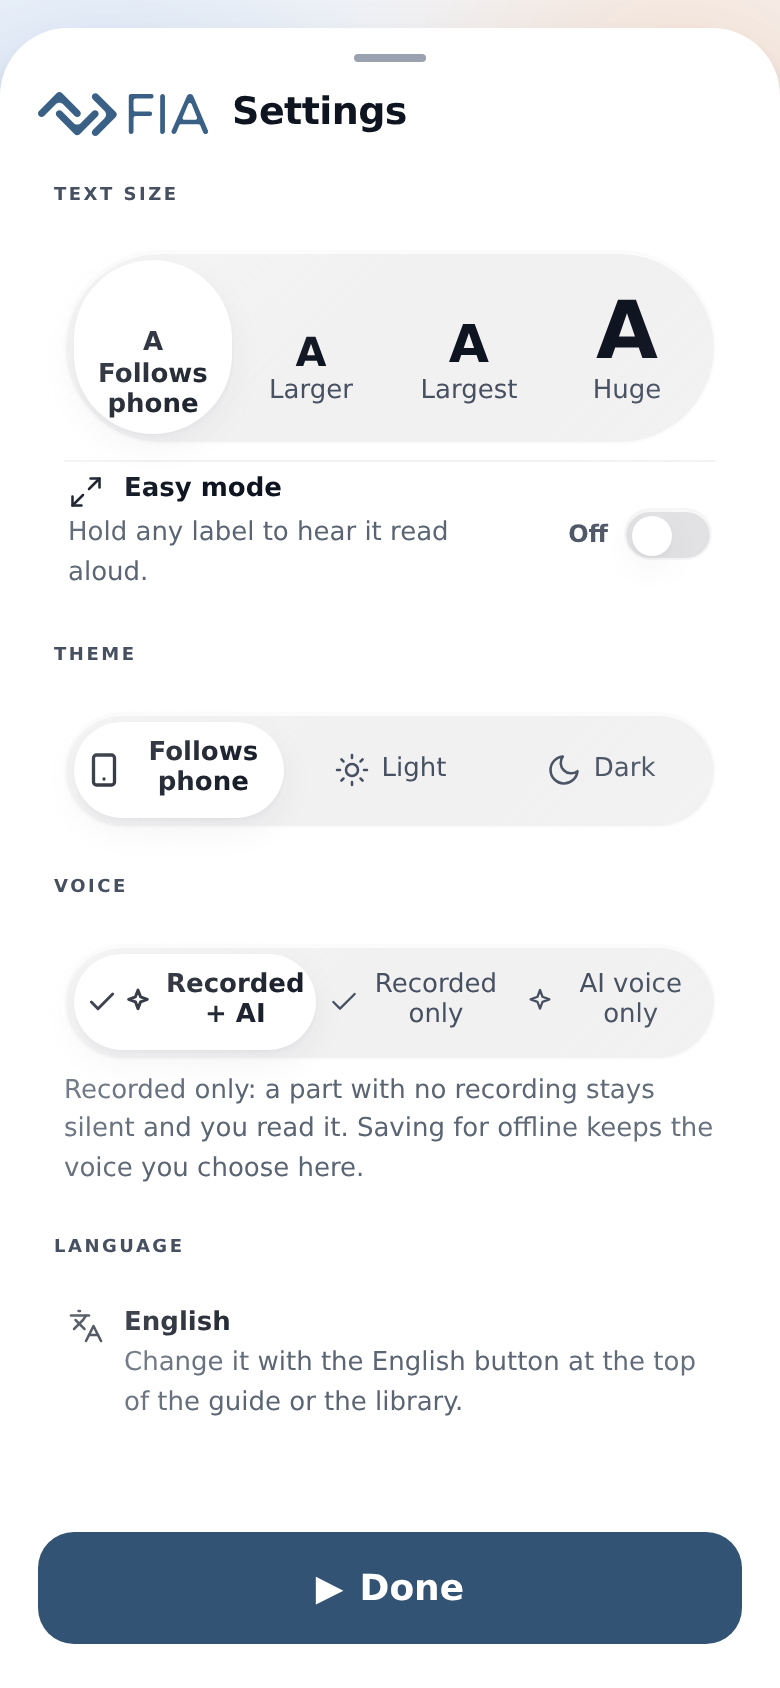
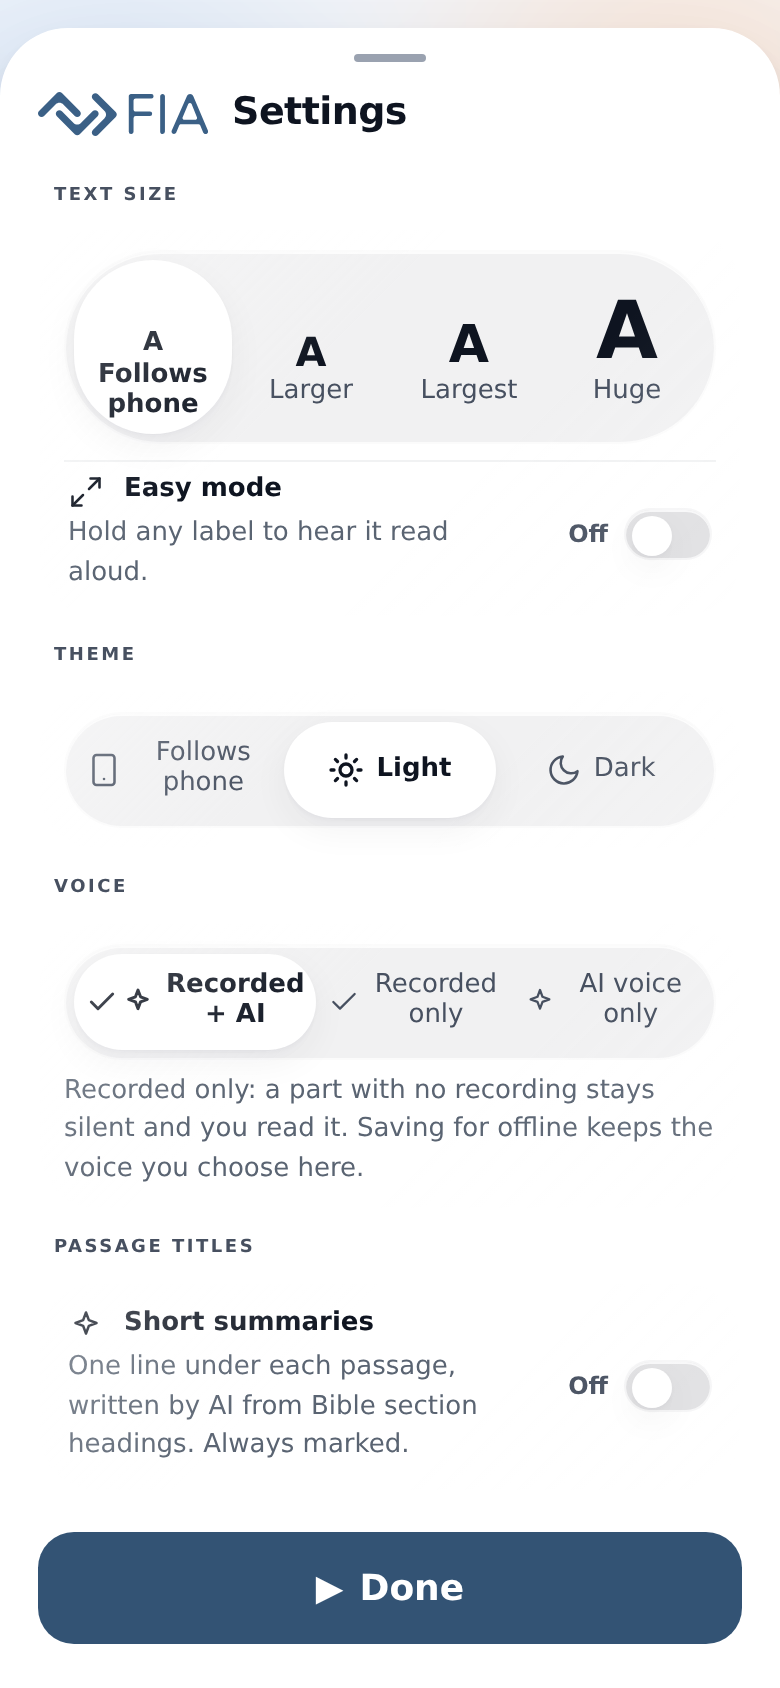
FS-2: C-10 subtitleMode setting, S14 "Passage titles" switch, S01 line
- settings.ts: subtitleMode generated|off (C-10 1.1.0), default off via
  DEFAULT_SUBTITLE_MODE; normalizeSettings keeps a stored valid value and
  drops junk with a status line (#42 review: it was dropped on load).
- S14: "Passage titles" group, one SettingsRow + SettingsToggle with the
  kit sparkle, label "Short summaries", note per TICKET § 8 FS-2.
- S01: disclosure names passage summaries while the switch is on
  (TERRY-READING (4)).
- en.json regenerated by scripts/extract-strings.mjs from the cookbook
  string rows (companion cookbook PR).
- Tests: C-10 default off, normalize keep/drop, save-load round trip,
  S14 render, e2e persistence across reload; S14 well count 4 -> 5.
- Screenshots: S14 top/end light+dark re-shot at 390x844; new fs2/ shots.

No subtitle rendering on S02/S03 (FS-1, after BL4e).

Claude-Session: https://claude.ai/code/session_0162y4Z8mEx6Zs8pPrnLdyeE

diff --git a/src/settings/settings.ts b/src/settings/settings.ts
@@ -1,6 +1,7 @@
 // C-10 Settings (contracts/c10-settings.schema.json, key `fia.settings.v1`).
 // Load → migrate PoC keys once → coerce unknown enums to defaults with a status line →
 // validate → persist. Enum values are the contract; UI labels are not (R-313).
+import { DEFAULT_SUBTITLE_MODE, type SubtitleMode } from '../media/provenance';
 import { C10, contracts, errorsText } from './contracts';
 import type { KeyValueStore } from './storage';
 
@@ -10,6 +11,8 @@ export const NARRATION_MODES = ['source-fallback', 'source-only', 'generated-onl
 export const MEDIA_TIERS = ['text', 'phone', 'medium', 'original'] as const;
 export const TEXT_SIZES = ['system', 'large', 'max', 'huge'] as const;
 export const THEMES = ['system', 'light', 'dark'] as const;
+/** C-10 1.1.0 `subtitleMode` (FS-2): AI pericope subtitles shown (`generated`) or hidden (`off`). */
+export const SUBTITLE_MODES = ['generated', 'off'] as const satisfies readonly SubtitleMode[];
 export const DISCLOSURES = [
   'ai-narration',
   'ai-translation',
@@ -22,10 +25,13 @@ export type MediaTier = (typeof MEDIA_TIERS)[number];
 export type TextSize = (typeof TEXT_SIZES)[number];
 export type Theme = (typeof THEMES)[number];
 export type Disclosure = (typeof DISCLOSURES)[number];
+export type { SubtitleMode };
 
 export interface Settings {
   schemaVersion: 1;
   narrationMode: NarrationMode;
+  /** C-10 1.1.0; optional in the contract, always filled by normalizeSettings (default `off`). */
+  subtitleMode: SubtitleMode;
   mediaTier: MediaTier;
   contentLanguage: string;
   uiLanguage: string;
@@ -39,10 +45,11 @@ export interface Settings {
 
 const LANG = /^[a-z]{3}(-[A-Za-z]{2,8})?$/;
 
-/** Defaults: narration source-fallback (M3, R-501); telemetry off (C-10 test). */
+/** Defaults: narration source-fallback (M3, R-501); subtitles off (PoC a5); telemetry off (C-10 test). */
 export const DEFAULT_SETTINGS: Settings = Object.freeze({
   schemaVersion: 1,
   narrationMode: 'source-fallback',
+  subtitleMode: DEFAULT_SUBTITLE_MODE,
   mediaTier: 'phone',
   contentLanguage: 'eng',
   uiLanguage: 'eng',
@@ -128,6 +135,7 @@ export function normalizeSettings(raw: unknown, base: Settings = DEFAULT_SETTING
       'narrationMode',
       notes,
     ),
+    subtitleMode: pick(SUBTITLE_MODES, r.subtitleMode, base.subtitleMode, 'subtitleMode', notes),
     mediaTier: pick(MEDIA_TIERS, r.mediaTier, base.mediaTier, 'mediaTier', notes),
     contentLanguage: lang(r.contentLanguage, base.contentLanguage, 'contentLanguage', notes),
     uiLanguage: lang(r.uiLanguage, base.uiLanguage, 'uiLanguage', notes),

diff --git a/tests/settings.test.ts b/tests/settings.test.ts
@@ -122,3 +122,46 @@ describe('startup applies saved display settings (review fia-app#5 finding 3)', 
     expect(attrs.has('data-low-literacy')).toBe(true);
   });
 });
+
+// FS-2 (pericope-subtitles TICKET § 8): C-10 1.1.0 `subtitleMode` generated|off, default off (PoC a5).
+describe('C-10 subtitleMode (FS-2)', () => {
+  it('defaults to off, matching the contract default and DEFAULT_SUBTITLE_MODE', async () => {
+    const fs = await import('node:fs');
+    const c10 = JSON.parse(
+      fs.readFileSync(new URL('../contracts/c10-settings.schema.json', import.meta.url), 'utf8'),
+    );
+    const { DEFAULT_SUBTITLE_MODE } = await import('../src/media/provenance');
+    expect(DEFAULT_SETTINGS.subtitleMode).toBe('off');
+    expect(DEFAULT_SUBTITLE_MODE).toBe('off');
+    expect(c10.properties.subtitleMode.default).toBe('off');
+    expect(c10.properties.subtitleMode.enum).toEqual(['generated', 'off']);
+    expect(normalizeSettings({}).settings.subtitleMode).toBe('off');
+    expect(validateSettings(DEFAULT_SETTINGS).ok).toBe(true);
+  });
+  it('normalize keeps a stored valid value and drops junk with a status line', () => {
+    const kept = normalizeSettings({ ...DEFAULT_SETTINGS, subtitleMode: 'generated' });
+    expect(kept.settings.subtitleMode).toBe('generated');
+    expect(kept.notes).toEqual([]);
+    const junk = normalizeSettings({ ...DEFAULT_SETTINGS, subtitleMode: 'on' });
+    expect(junk.settings.subtitleMode).toBe('off');
+    expect(junk.notes).toEqual(['subtitleMode: unknown value "on" → off']);
+    expect(validateSettings({ ...DEFAULT_SETTINGS, subtitleMode: 'on' }).ok).toBe(false);
+  });
+  it('generated survives save → load through fia.settings.v1', () => {
+    const store = memoryStore();
+    const saved = saveSettings(store, { ...DEFAULT_SETTINGS, subtitleMode: 'generated' });
+    expect(saved.ok).toBe(true);
+    expect(JSON.parse(store.getItem(SETTINGS_KEY)!).subtitleMode).toBe('generated');
+    expect(loadSettings(store).settings.subtitleMode).toBe('generated');
+  });
+  it('a 1.0.0 record with no subtitleMode loads as off', () => {
+    const store = memoryStore();
+    const { subtitleMode: _drop, ...old } = DEFAULT_SETTINGS;
+    void _drop;
+    store.setItem(SETTINGS_KEY, JSON.stringify({ ...old, narrationMode: 'source-only' }));
+    const r = loadSettings(store);
+    expect(r.settings.subtitleMode).toBe('off');
+    expect(r.settings.narrationMode).toBe('source-only');
+    expect(r.notes).toEqual([]);
+  });
+});

diff --git a/tests/s14-settings.test.ts b/tests/s14-settings.test.ts
@@ -47,6 +47,41 @@ describe('S14 Settings in glass', () => {
   });
 });
 
+describe('S14 Passage titles (FS-2, C-10 subtitleMode)', () => {
+  it('renders one Short summaries switch with its note and the kit sparkle, off by default', () => {
+    const h = html();
+    expect(h).toContain('aria-label="Passage titles"');
+    expect(h).toContain(EN['s.settings.summaries-note']);
+    expect(EN['s.settings.summaries']).toBe('Short summaries');
+    expect(EN['s.settings.summaries-note']).toBe(
+      'One line under each passage, written by AI from Bible section headings. Always marked.',
+    );
+    const sw = h.match(
+      /<[^>]*role="switch"[^>]*aria-label="Short summaries"[^>]*>|<[^>]*aria-label="Short summaries"[^>]*role="switch"[^>]*>/,
+    );
+    expect(sw?.[0]).toContain('aria-checked="false"');
+    const group = h.slice(h.indexOf('aria-label="Passage titles"'));
+    expect(group.slice(0, group.indexOf('</section>'))).toContain('M12 3l1.9 5.1L19 10');
+  });
+  it('sits between Voice and Language', () => {
+    const h = html();
+    const at = (k: string) => h.indexOf(`aria-label="${EN[k]}"`);
+    expect(at('s.settings.narration')).toBeLessThan(at('s.settings.passage-titles'));
+    expect(at('s.settings.passage-titles')).toBeLessThan(at('s.settings.language'));
+  });
+});
+
+describe('S01 disclosure names passage summaries when the switch is on (TERRY-READING (4))', () => {
+  it("keeps today's line by default and has the summaries line ready", async () => {
+    const { default: S01 } = await import('../src/screens/S01FirstRunLanguage');
+    const h = renderToString(createElement(MemoryRouter, null, createElement(S01)));
+    expect(h).toContain(EN['s.lang.disclosure']);
+    expect(EN['s.lang.disclosure-summaries']).toBe(
+      'Some voices, translations and passage summaries are made by AI and are marked.',
+    );
+  });
+});
+
 describe('Text-size steps 100 / 150 / 200 / 310% (PRD § 8.5)', () => {
   it('C-10 accepts huge and maps each step to its own html attribute', () => {
     expect(normalizeSettings({ ...DEFAULT_SETTINGS, textSize: 'huge' }).settings.textSize).toBe(

diff --git a/src/screens/S14Settings.tsx b/src/screens/S14Settings.tsx
@@ -27,7 +27,8 @@ import {
 
 // S14 Settings in glass (F6-S14; nodded mock cookbook design/alpha-v2-screens/14-settings.html, PRD § 4
 // row S14, § 8.5): a full-height kit GlassSheet with the FIA logo leading the title, one primary
-// ('Done') in the thumb slot, groups as kit GlassSurface wells: Text size · Theme · Voice · Language.
+// ('Done') in the thumb slot, groups as kit GlassSurface wells: Text size · Theme · Voice · Passage titles
+// · Language. FS-2: "Passage titles" holds one ToggleRow (kit sparkle) for C-10 `subtitleMode`, default off.
 // Kept bones: every change persists to C-10 `fia.settings.v1` after validation (R-706); a failed save
 // shows `save-failed` for 4 s and the app continues. Rows whose value has no C-10 field (auto-continue,
 // read without voice, this phone's voice) are not rendered: they would not persist (BIDE, PR body).
@@ -270,6 +271,21 @@ export default function S14Settings() {
                 }))}
               />
               <div className="fia-caption s14-note">{t('s.settings.narration.note')}</div>
+            </Group>
+
+            <Group title={t('s.settings.passage-titles')}>
+              <SettingsRow
+                icon={<Icon name="sparkle" size={18} />}
+                label={t('s.settings.summaries')}
+                consequence={t('s.settings.summaries-note')}
+                control={
+                  <SettingsToggle
+                    on={settings.subtitleMode === 'generated'}
+                    label={t('s.settings.summaries')}
+                    onChange={(v) => update({ ...settings, subtitleMode: v ? 'generated' : 'off' })}
+                  />
+                }
+              />
             </Group>
 
             <Group title={t('s.settings.language')}>

diff --git a/e2e/fs2-subtitle-mode.spec.ts b/e2e/fs2-subtitle-mode.spec.ts
@@ -1,0 +1,44 @@
+import { expect, test } from '@playwright/test';
+
+// FS-2 (pericope-subtitles TICKET § 8): the S14 "Short summaries" switch writes C-10 `subtitleMode`,
+// survives a reload, and S01's disclosure names passage summaries while it is on (TERRY-READING (4)).
+test('S14 Short summaries switch persists across reload and reaches the S01 disclosure', async ({
+  page,
+}) => {
+  await page.setViewportSize({ width: 390, height: 844 });
+  await page.goto('/');
+  await expect(
+    page.getByText('Some voices and translations are made by AI and are marked.'),
+  ).toBeVisible();
+
+  await page.goto('/settings');
+  const sw = page.getByRole('switch', { name: 'Short summaries' });
+  await expect(sw).toHaveAttribute('aria-checked', 'false');
+  await sw.click();
+  await expect(sw).toHaveAttribute('aria-checked', 'true');
+  const stored = await page.evaluate(() => localStorage.getItem('fia.settings.v1'));
+  expect(JSON.parse(stored!).subtitleMode).toBe('generated');
+
+  await page.reload();
+  await expect(page.getByRole('switch', { name: 'Short summaries' })).toHaveAttribute(
+    'aria-checked',
+    'true',
+  );
+
+  await page.goto('/');
+  await expect(
+    page.getByText(
+      'Some voices, translations and passage summaries are made by AI and are marked.',
+    ),
+  ).toBeVisible();
+
+  await page.goto('/settings');
+  await page.getByRole('switch', { name: 'Short summaries' }).click();
+  await page.reload();
+  await expect(page.getByRole('switch', { name: 'Short summaries' })).toHaveAttribute(
+    'aria-checked',
+    'false',
+  );
+  const off = await page.evaluate(() => localStorage.getItem('fia.settings.v1'));
+  expect(JSON.parse(off!).subtitleMode).toBe('off');
+});

diff --git a/src/screens/S01FirstRunLanguage.tsx b/src/screens/S01FirstRunLanguage.tsx
@@ -4,13 +4,18 @@ import { LanguagePicker } from '../components';
 import { flowSession } from '../flow/session';
 import { t } from '../i18n';
 import type { Language } from '../i18n/languages';
+import { browserStore, loadSettings } from '../settings';
 import { ScreenFrame } from './ScreenFrame';
 
 // S01 First run / language (01-first-run-language.md). Whole row selects; primary carries the
 // pick into the flow session (content language for the library, C-09 `contentLanguage`).
+// FS-2: with C-10 `subtitleMode` on, the disclosure also names passage summaries (TERRY-READING (4)).
 export default function S01FirstRunLanguage() {
   const nav = useNavigate();
   const [pick, setPick] = useState<Language | undefined>();
+  const [summaries] = useState(
+    () => loadSettings(browserStore()).settings.subtitleMode === 'generated',
+  );
   return (
     <ScreenFrame
       id="S01"
@@ -25,7 +30,9 @@ export default function S01FirstRunLanguage() {
       }}
     >
       <LanguagePicker variant="first-run" value={pick?.code} onChange={(_c, row) => setPick(row)} />
-      <p className="fia-caption">{t('s.lang.disclosure')}</p>
+      <p className="fia-caption">
+        {t(summaries ? 's.lang.disclosure-summaries' : 's.lang.disclosure')}
+      </p>
     </ScreenFrame>
   );
 }

diff --git a/e2e/f6-s14-fixes.spec.ts b/e2e/f6-s14-fixes.spec.ts
@@ -76,6 +76,7 @@ test('S14 group wells keep the 10/12 inset over app.css .fia-well', async ({ pag
   const pads = await page
     .locator('.s14-card')
     .evaluateAll((els) => els.map((e) => getComputedStyle(e).padding));
-  expect(pads.length).toBe(4);
+  // Text size · Theme · Voice · Passage titles (FS-2) · Language.
+  expect(pads.length).toBe(5);
   for (const p of pads) expect(p).toBe('10px 12px');
 });
